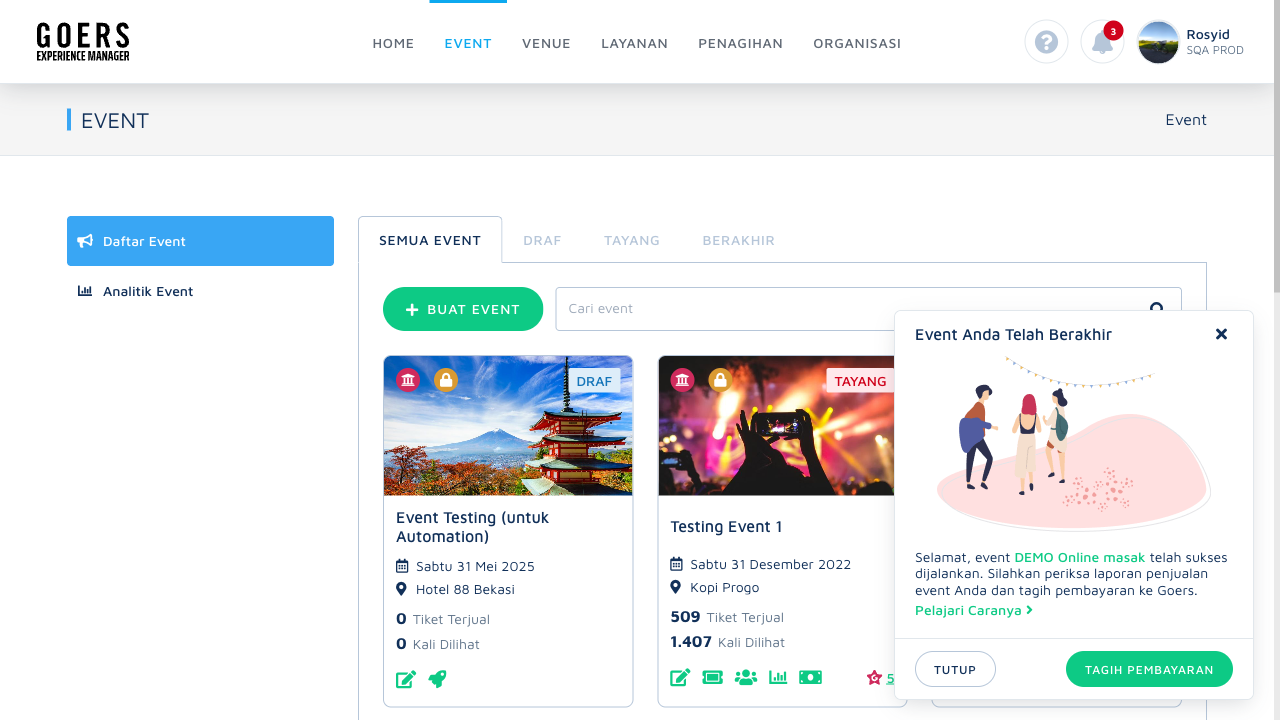
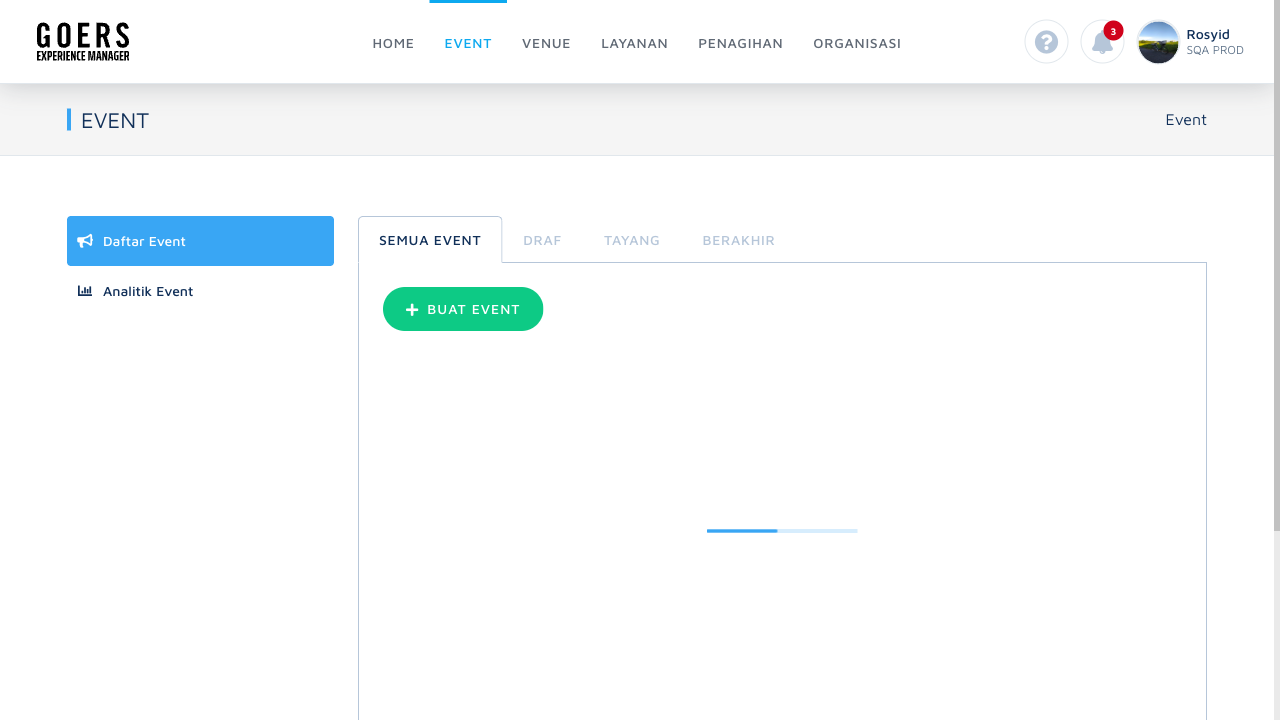
fix: manage event

diff --git a/page/events/manage_event_page.py b/page/events/manage_event_page.py
@@ -21,24 +21,33 @@ class ManageEventPage:
         self.page.wait_for_url("**/events/analytics", timeout=10000)    
         return self.page
 
-    @allure.step("Pindah-pindah tab event: Semua → Draf → Tayang → Berakhir → Semua")
-    def switch_event_tabs(self):
-        tab_texts = ["SEMUA EVENT", "DRAF", "TAYANG", "BERAKHIR", "SEMUA EVENT"]
+@allure.step("Pindah-pindah tab event: Semua → Draf → Tayang → Berakhir → Semua")
+def switch_event_tabs(self):
+    # Tunggu 2 detik sebelum mulai berpindah tab (setelah buka menu event)
+    self.page.wait_for_timeout(2000)
 
-        for tab in tab_texts:
-            try:
-                tab_selector = f'a.nav-link:has-text("{tab}")'
-                self.page.locator(tab_selector).click()
-                print(f"[INFO] Klik tab: {tab}")
-                self.page.wait_for_selector("div.card", timeout=5000)
-                self.page.wait_for_timeout(500)  # opsional delay animasi
-            except Exception as e:
-                print(f"[ERROR] Gagal klik tab: {tab} → {str(e)}")
-                self.page.screenshot(path=f"screenshots/tab_{tab.lower().replace(' ', '_')}_error.png")
-                raise e
+    tab_texts = [
+        ("SEMUA EVENT", 2000),
+        ("DRAF", 2000),
+        ("TAYANG", 2000),
+        ("BERAKHIR", 2000),
+        ("SEMUA EVENT", 3000),
+    ]
 
-        print("[INFO] Selesai jelajahi semua tab event")
-        self.page.wait_for_timeout(3000)
+    for tab, delay in tab_texts:
+        try:
+            tab_selector = f'a.nav-link:has-text("{tab}")'
+            self.page.locator(tab_selector).click()
+            print(f"[INFO] Klik tab: {tab}")
+            self.page.wait_for_selector("div.card", timeout=5000)
+            self.page.wait_for_timeout(delay)  # delay setelah pindah tab
+        except Exception as e:
+            print(f"[ERROR] Gagal klik tab: {tab} → {str(e)}")
+            self.page.screenshot(path=f"screenshots/tab_{tab.lower().replace(' ', '_')}_error.png")
+            raise e
+
+    print("[INFO] Selesai jelajahi semua tab event")
+
 
     @allure.step("Klik tombol Buat Event")
     def click_create_event(self):

diff --git a/test/events/test_manage_event.py b/test/events/test_manage_event.py
@@ -76,6 +76,8 @@ def test_switch_event_tabs(go_to_event_page):
     event_page = ManageEventPage(page)
 
     event_page.switch_event_tabs()
+    assert "/events" in page.url, f"Masih di halaman event, current URL: {page.url}"
+    page.wait_for_timeout(2000)  # Tunggu sebentar untuk memastikan halaman siap
 
 # ✅ Test klik tombol Buat Event
 @allure.title("Klik tombol Buat Event")
@@ -89,7 +91,7 @@ def test_click_create_event(go_to_event_page):
     assert "/events/create" in page.url, f"Redirect ke halaman Buat Event gagal, current URL: {page.url}"
     page.wait_for_timeout(2000)
 
-# ✅ Test pencarian event
+# ✅ Test pencarian event valid
 @allure.title("Cari event berdasarkan nama")
 def test_search_event(go_to_event_page):
     page = go_to_event_page
@@ -97,3 +99,12 @@ def test_search_event(go_to_event_page):
 
     event_page.search_event("Testing Event 1")  # ganti dengan nama event yang kamu tahu ada
     page.wait_for_timeout(2000)  # Tunggu sebentar untuk memastikan hasil muncul
+
+# # ✅ Test pencarian event invalid
+# @allure.title("Cari event berdasarkan nama - nama tidak ditemukan")
+# def test_search_event_invalid(go_to_event_page):
+#     page = go_to_event_page
+#     event_page = ManageEventPage(page)
+
+#     event_page.search_event("Testing Event tidak ada")  # ganti dengan nama event yang kamu tahu ada
+#     page.wait_for_timeout(2000)  # Tunggu sebentar untuk memastikan hasil muncul
